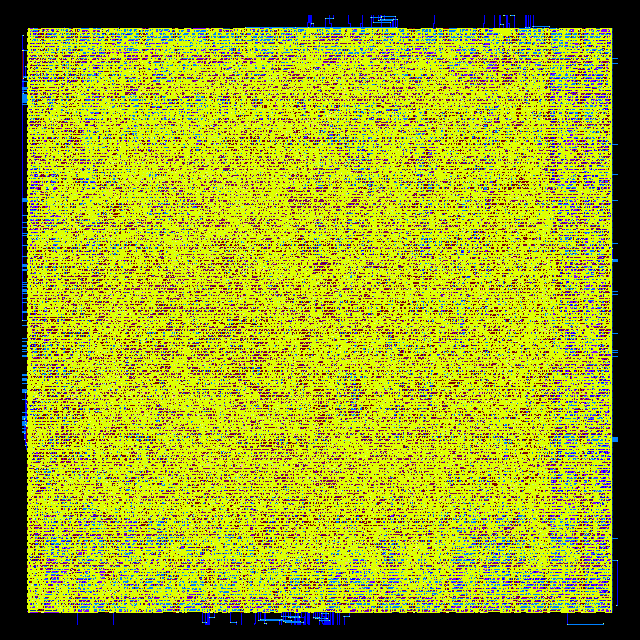
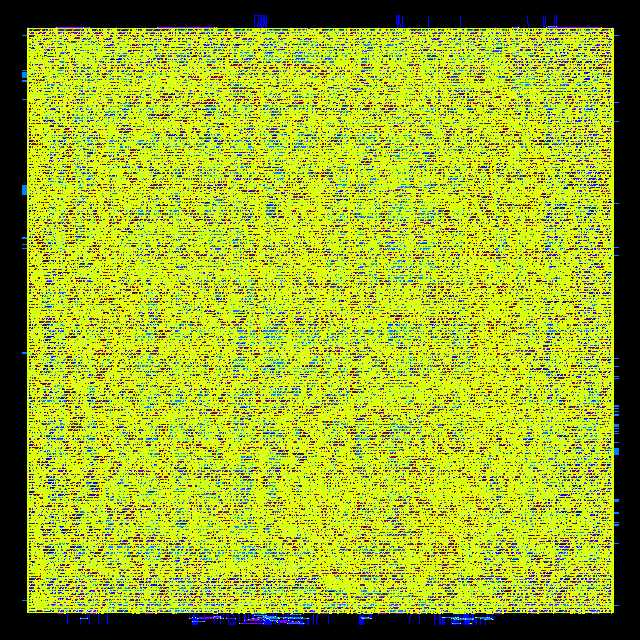
ALU icsprout55: 317.5 MHz at 57% utilization, metal/via DRC down to MET1-A.1

diff --git a/examples/PPA-opt-32b-alu-bekiryy/README.md b/examples/PPA-opt-32b-alu-bekiryy/README.md
@@ -78,7 +78,7 @@ on gt2n, see below).
 | gf180mcuD | 180 nm | LibreLane | 54.1 MHz | +99 ps (0.5%) | 178.3 mW | 3,299 pJ | 5.9 MHz | 19.12 mW | 3,261 pJ | 685,054 µm² | 65% | 0 |
 | sky130A | 130 nm | LibreLane | 113.6 MHz | +79 ps (0.9%) | 28.5 mW | 251 pJ | 12.3 MHz | 3.10 mW | 251 pJ | 308,336 µm² | 62% | 0 |
 | ihp-sg13g2 | 130 nm SiGe | LibreLane | 151.5 MHz | +187 ps (2.8%) | 27.0 mW | 178 pJ | 16.4 MHz | 2.96 mW | 180 pJ | 395,162 µm² | 63% | 0 |
-| icsprout55 | 55 nm | LibreLane | 333.3 MHz | +24 ps (0.8%) | 19.8 mW* | 59.5 pJ | 36.2 MHz | 2.15 mW* | 59.6 pJ | 67,236 µm² | 67% | 0 |
+| icsprout55 | 55 nm | LibreLane | 317.5 MHz | +43 ps (1.4%) | 19.1 mW* | 60.3 pJ | 34.4 MHz | 2.08 mW* | 60.4 pJ | 78,624 µm² | 57% | 0 |
 | nangate45 | 45 nm | ORFS | 806.5 MHz | +2 ps (0.2%) | 32.9 mW | 40.8 pJ | 87.5 MHz | 4.61 mW | 52.7 pJ | 48,569 µm² | 57% | 0 |
 | asap7 | 7 nm | ORFS | 1.56 GHz | +1 ps (0.1%) | 12.3 mW | 7.88 pJ | 169.5 MHz | 1.33 mW | 7.88 pJ | 3,570 µm² | 57% | 0 |
 | gt2n | 2 nm | ORFS | 1.33 GHz | +13 ps (1.7%) | 6.3 mW | 4.71 pJ | 144.6 MHz | 0.85 mW | 5.89 pJ | 1,662 µm² | 50% | 0 |

diff --git a/README.md b/README.md
@@ -197,8 +197,10 @@ Upstream files are not stored here; these are added or derived on install.
   It uses the plain cell LEF, not upstream's `_ecos` one, whose pins carry
   VIA1 and M2 shapes the cell GDS does not draw (every pin was left open). The
   installer derives a tech LEF with extra VIA1s that fit the 0.09 µm cell pins
-  (the foundry's own VIA1s cannot land on them), `MUX2X3` is excluded (no
-  router access to its pins), and the M1 rails are as wide as the cells' own.
+  (the foundry's own VIA1s cannot land on them), `MUX2X2`-`MUX2X4` are excluded (no
+  router access to their pins), the M1 rails are as wide as the cells' own,
+  and post-route fill uses only the M1-free fillers: the `FILLCAP` decaps have
+  M1 inside that lands next to routed wires.
   [`icsprout55_beol.drc`](overlays/icsprout55/libs.tech/klayout/drc/icsprout55_beol.drc)
   is a KLayout metal/via deck translated from upstream's Calibre deck; its
   header lists what it does not cover.
